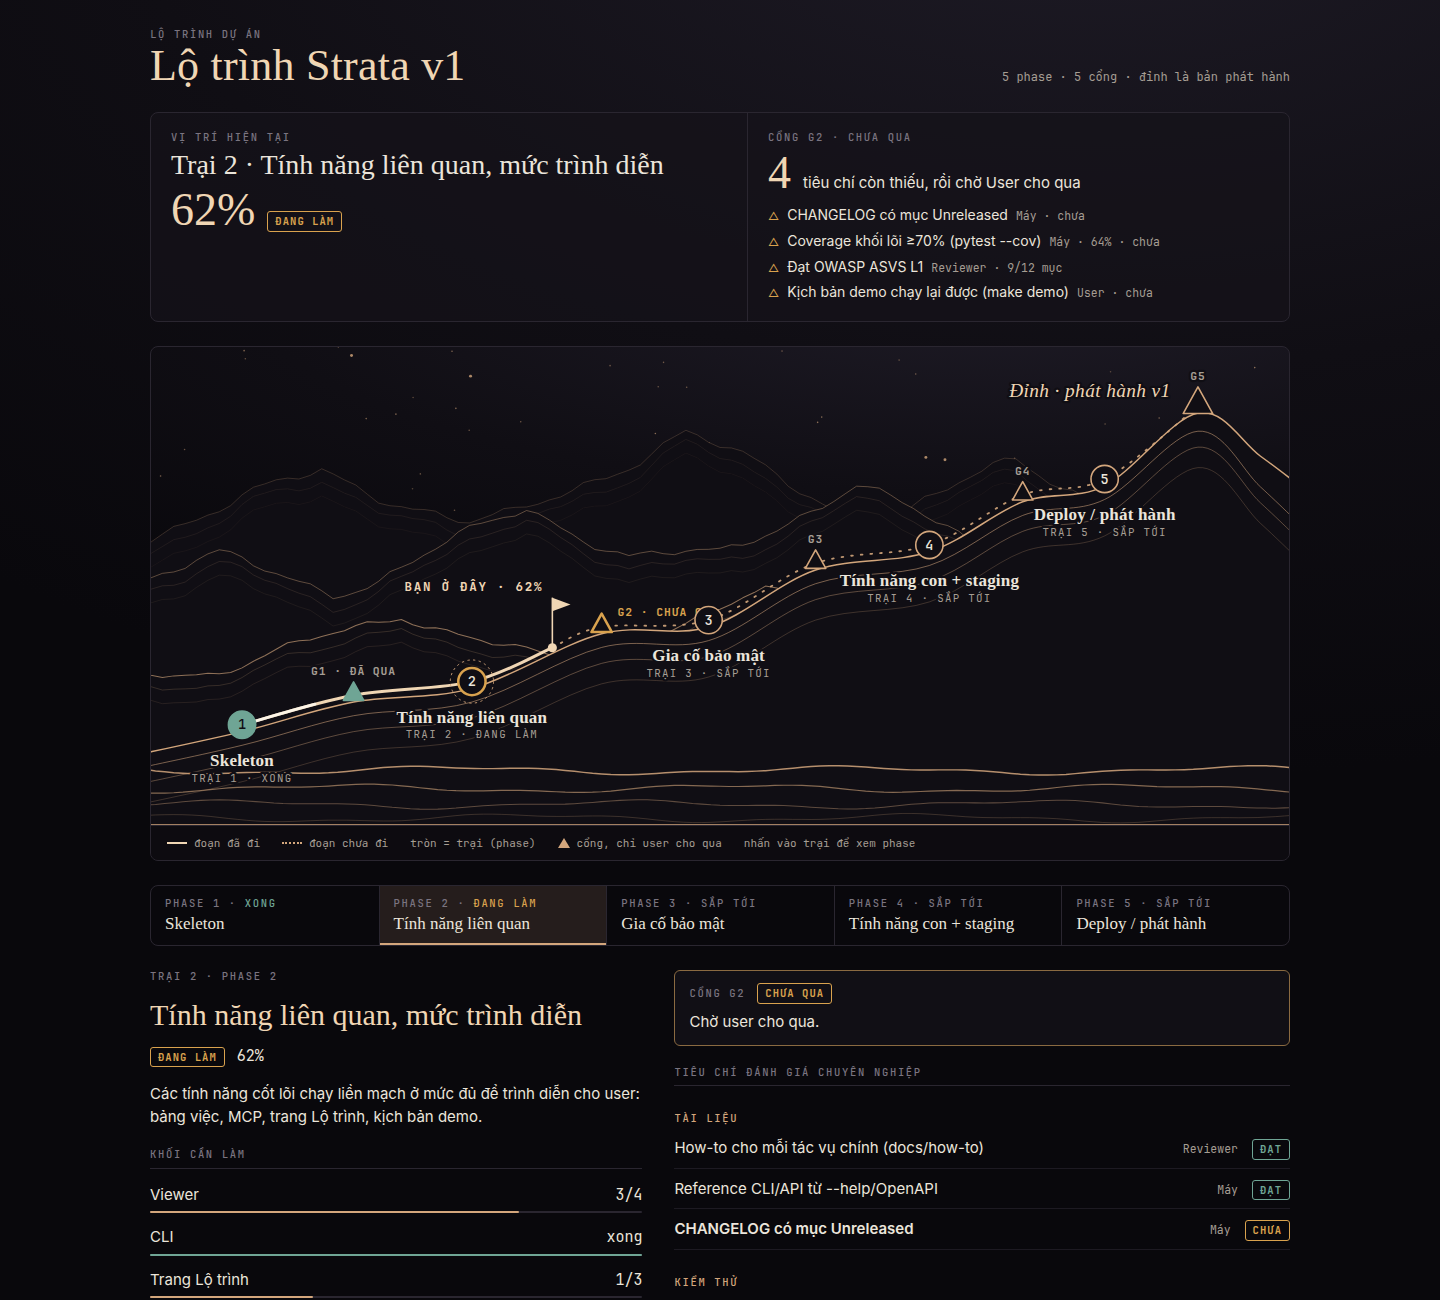
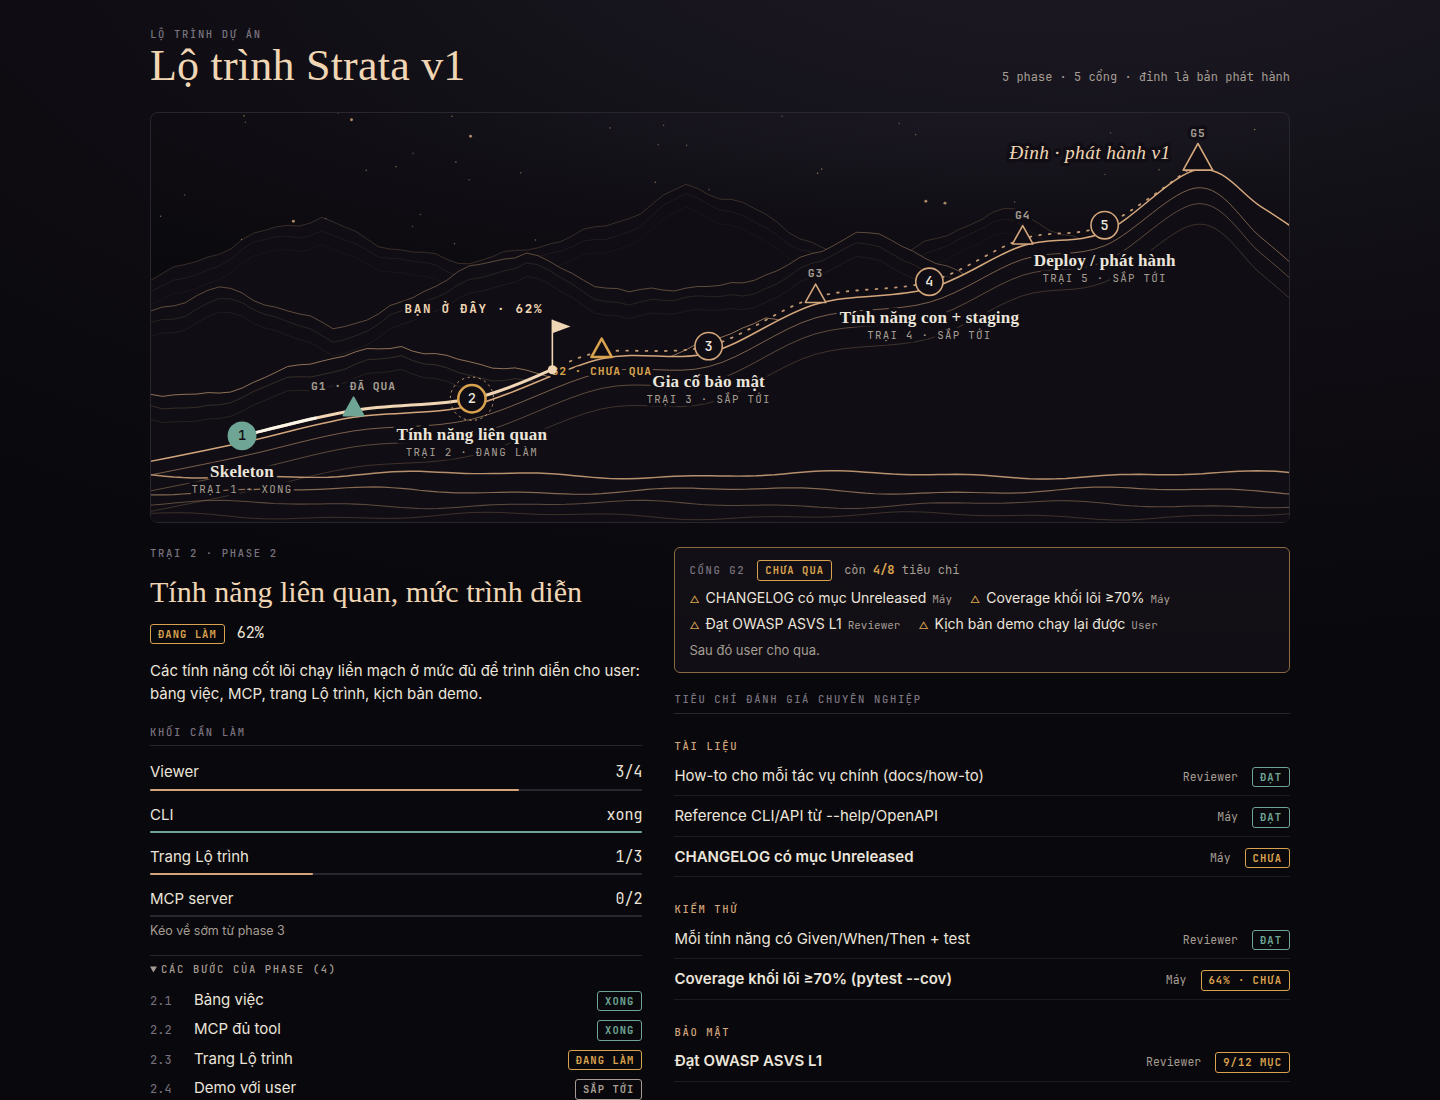
Roadmap astra: drop status strip/legend/tabs, map as head, informative gate box

diff --git a/design/roadmap-astra.html b/design/roadmap-astra.html
@@ -52,24 +52,14 @@ body { margin: 0; background: var(--haze), var(--bg-0); background-attachment: f
 .cap { font: 600 10.5px/1.3 var(--mono); letter-spacing: .16em; text-transform: uppercase; color: var(--faint); }
 button { font: inherit; color: inherit; }
 :focus-visible { outline: 2px solid var(--accent); outline-offset: 2px; }
+.tag { font: 700 10.5px/1 var(--mono); letter-spacing: .1em; text-transform: uppercase; padding: 4px 7px; border: 1px solid currentColor; border-radius: 3px; white-space: nowrap; }
+.tag.done { color: var(--st-done); } .tag.doing { color: var(--st-doing); } .tag.todo { color: var(--st-todo); }
 .row { display: flex; align-items: baseline; gap: 12px; flex-wrap: wrap; }
 
 header { display: flex; flex-wrap: wrap; gap: 8px 24px; justify-content: space-between; align-items: flex-end; }
 h1 { margin: 2px 0 0; font: 500 44px/1 var(--display); letter-spacing: .005em; color: var(--gold-3); text-wrap: balance; }
 .meta { font: 12px/1.6 var(--mono); color: var(--muted); text-align: right; }
 
-/* dải trạng thái */
-.status { display: grid; grid-template-columns: 1.1fr 1fr; border: 1px solid var(--line); border-radius: var(--r-lg); background: color-mix(in srgb, var(--card) 70%, transparent); }
-.status > div { padding: 18px 20px; min-width: 0; display: flex; flex-direction: column; gap: 6px; }
-.status > div + div { border-left: 1px solid var(--line); }
-.status h2 { margin: 0; font: 500 28px/1.1 var(--display); text-wrap: balance; }
-.big { font: 500 46px/1 var(--display); color: var(--gold-3); font-variant-numeric: lining-nums tabular-nums; }
-.tag { font: 700 10.5px/1 var(--mono); letter-spacing: .1em; text-transform: uppercase; padding: 4px 7px; border: 1px solid currentColor; border-radius: 3px; white-space: nowrap; }
-.tag.done { color: var(--st-done); } .tag.doing { color: var(--st-doing); } .tag.todo { color: var(--st-todo); }
-.miss { margin: 2px 0 0; padding: 0; list-style: none; display: flex; flex-direction: column; gap: 4px; font-size: 14px; }
-.miss li { display: flex; gap: 8px; flex-wrap: wrap; align-items: baseline; }
-.miss li::before { content: "\25B3"; color: var(--st-doing); font-size: 11px; }
-.miss .who { font: 11.5px var(--mono); color: var(--muted); }
 
 /* bản đồ */
 .mapbox { position: relative; border-radius: var(--r-lg); background: var(--haze); overflow: hidden; border: 1px solid var(--line); }
@@ -85,7 +75,7 @@ svg.map { display: block; width: 100%; min-width: 680px; height: auto; color: va
 .map .trail-todo { fill: none; stroke: currentColor; stroke-width: 1.6; stroke-dasharray: 1.5 7; stroke-linecap: round; opacity: .9; }
 .map .trail-done { fill: none; stroke: var(--trail); stroke-width: 2.6; stroke-linecap: round; stroke-linejoin: round; }
 .map .sheen { fill: none; stroke: var(--sheen); stroke-width: 2.6; stroke-linecap: round; stroke-dasharray: 60 1340; opacity: .85; }
-.map text { font-family: var(--mono); fill: var(--fg); paint-order: stroke; stroke: var(--bg); stroke-width: 4px; stroke-linejoin: round; }
+.map text { font-family: var(--mono); fill: var(--fg); paint-order: stroke; stroke: var(--bg); stroke-width: 6px; stroke-linejoin: round; }
 .map .sm { font-size: 9.5px; fill: var(--muted); letter-spacing: .12em; }
 .map .nm { font: 600 15px var(--display); letter-spacing: .01em; }
 .map .camp { cursor: pointer; }
@@ -106,20 +96,7 @@ svg.map { display: block; width: 100%; min-width: 680px; height: auto; color: va
 .map .flag polygon { fill: var(--trail); }
 .map .here { fill: var(--trail); font-size: 11px; font-weight: 700; letter-spacing: .14em; }
 .map .summit { font: italic 500 17px var(--display); fill: var(--gold-3); letter-spacing: .02em; }
-.legend { display: flex; flex-wrap: wrap; gap: 6px 22px; padding: 10px 16px; border-top: 1px solid var(--line); font: 11px var(--mono); color: var(--muted); align-items: center; background: color-mix(in srgb, var(--bg) 60%, transparent); }
-.legend span { display: inline-flex; align-items: center; gap: 7px; }
-.sw { width: 20px; height: 0; border-top: 2.5px solid var(--trail); }
-.sw.d { border-top: 2px dotted var(--gold); }
-.sw.t { width: 0; height: 0; border: 0; border-left: 6px solid transparent; border-right: 6px solid transparent; border-bottom: 10px solid var(--gold); }
 
-/* chọn phase */
-.rail { display: grid; grid-template-columns: repeat(5, 1fr); border: 1px solid var(--line); border-radius: var(--r-lg); overflow: hidden; }
-.rail button { background: transparent; border: 0; text-align: left; padding: 11px 14px; cursor: pointer; display: flex; flex-direction: column; gap: 3px; min-width: 0; }
-.rail button + button { border-left: 1px solid var(--line); }
-.rail button:hover { background: var(--accent-soft); }
-.rail button[aria-pressed="true"] { background: var(--accent-soft); box-shadow: inset 0 -2px 0 var(--gold); }
-.rail .t { font: 500 17px/1.2 var(--display); overflow-wrap: anywhere; }
-.rail .st-done { color: var(--st-done); } .rail .st-doing { color: var(--st-doing); }
 
 /* chi tiết */
 .detail { display: grid; grid-template-columns: 1fr 1.25fr; gap: 32px; align-items: start; }
@@ -145,16 +122,19 @@ details summary { cursor: pointer; font: 600 10.5px var(--mono); letter-spacing:
 .steps { list-style: none; margin: 6px 0 0; padding: 0; display: flex; flex-direction: column; gap: 6px; }
 .steps li { display: grid; grid-template-columns: 34px 1fr auto; gap: 10px; align-items: baseline; }
 .id { font: 12px var(--mono); color: var(--faint); }
+.gc { font: 12px var(--mono); color: var(--muted); } .gc b { color: var(--st-doing); font-weight: 700; }
+.gmiss { list-style: none; margin: 0; padding: 0; display: flex; flex-wrap: wrap; gap: 4px 18px; font-size: 14px; }
+.gmiss li { display: inline-flex; gap: 6px; align-items: baseline; }
+.gmiss li::before { content: "\25B3"; color: var(--st-doing); font-size: 10px; }
+.gmiss .who { font: 11px var(--mono); color: var(--muted); }
+.then { font-size: 13px; color: var(--muted); }
 .empty { margin: 0; color: var(--muted); font-style: italic; }
 .off { border-top: 1px solid var(--line); padding-top: 14px; display: flex; flex-direction: column; gap: 8px; }
 .off ul { list-style: none; margin: 0; padding: 0; display: flex; flex-wrap: wrap; gap: 6px 26px; }
 
 @media (max-width: 760px) {
   h1 { font-size: 34px; } .meta { text-align: left; }
-  .status, .detail { grid-template-columns: 1fr; }
-  .status > div + div { border-left: 0; border-top: 1px solid var(--line); }
-  .rail { grid-template-columns: 1fr; }
-  .rail button + button { border-left: 0; border-top: 1px solid var(--line); }
+  .detail { grid-template-columns: 1fr; }
   .crit { grid-template-columns: 1fr auto; } .crit .what { grid-column: 1 / -1; }
 }
 </style>
@@ -165,18 +145,9 @@ details summary { cursor: pointer; font: 600 10.5px var(--mono); letter-spacing:
     <div><div class="cap">Lộ trình dự án</div><h1>Lộ trình Strata v1</h1></div>
     <div class="meta">5 phase · 5 cổng · đỉnh là bản phát hành</div>
   </header>
-  <div class="status" id="status"></div>
   <div class="mapbox">
-    <div class="scroll"><svg class="map" id="map" viewBox="0 0 1000 420" role="img" aria-label="Năm trại trên các lớp núi; năm trại là năm phase, đỉnh là bản phát hành"></svg></div>
-    <div class="legend">
-      <span><i class="sw"></i> đoạn đã đi</span>
-      <span><i class="sw d"></i> đoạn chưa đi</span>
-      <span>tròn = trại (phase)</span>
-      <span><i class="sw t"></i> cổng, chỉ user cho qua</span>
-      <span>nhấn vào trại để xem phase</span>
-    </div>
+    <div class="scroll"><svg class="map" id="map" viewBox="0 0 1000 360" role="img" aria-label="Nhấn vào trại để xem phase. Năm trại trên các lớp núi; năm trại là năm phase, đỉnh là bản phát hành"></svg></div>
   </div>
-  <nav class="rail" id="rail" aria-label="Chọn phase"></nav>
   <div class="detail" id="detail"></div>
   <div class="off" id="off"></div>
 </div>
@@ -217,6 +188,8 @@ const NS = "http://www.w3.org/2000/svg";
 const lbl = { done:"xong", doing:"đang làm", todo:"sắp tới" };
 const esc = s => String(s).replace(/[&<>]/g, c => ({"&":"&amp;","<":"&lt;",">":"&gt;"}[c]));
 const P = { C1:[80,338], G1:[178,312], C2:[282,300], G2:[396,252], C3:[490,246], G3:[584,196], C4:[684,180], G4:[766,136], C5:[838,122], G5:[920,58] };
+const K = 360/420;
+for (const k in P) P[k] = [P[k][0], +(P[k][1]*K).toFixed(1)];
 const ORDER = ["C1","G1","C2","G2","C3","G3","C4","G4","C5","G5"];
 const FRAC = 0.62;
 const here = [P.C2[0] + (P.G2[0]-P.C2[0])*FRAC, P.C2[1] + (P.G2[1]-P.C2[1])*FRAC];
@@ -245,7 +218,7 @@ function ridge(base, amp, seed, peaks) {
     let y = base;
     peaks.forEach(([px, h, w]) => { y -= h * Math.max(0, 1 - Math.abs(x - px) / w); });
     y += amp * (Math.sin(x * .031 + seed) * .6 + Math.sin(x * .087 + seed * 2) * .3 + Math.sin(x * .19 + seed) * .12);
-    pts.push([x, +y.toFixed(1)]);
+    pts.push([x, +(y*K).toFixed(1)]);
   }
   return pts;
 }
@@ -258,7 +231,7 @@ function buildScene(s) {
   const rnd = () => (r = (r * 9301 + 49297) % 233280) / 233280;
   const stars = el("g", { class:"stars" }, g);
   for (let i = 0; i < 46; i++) {
-    const x = rnd() * 1000, y = rnd() * 150, big = rnd() > .85;
+    const x = rnd() * 1000, y = rnd() * 120, big = rnd() > .85;
     el("circle", { class:"star", cx:x.toFixed(1), cy:y.toFixed(1), r: big ? 1.3 : .7, opacity: (big ? .8 : .35 + rnd() * .3).toFixed(2) }, stars);
   }
   // lớp núi xa -> gần
@@ -269,19 +242,19 @@ function buildScene(s) {
   ];
   layers.forEach(L => {
     const d = lineD(L.pts);
-    el("path", { class:"body", d: d + " L1020 420 L-20 420 Z", "stroke-width":L.w, "stroke-opacity":L.op }, g);
+    el("path", { class:"body", d: d + " L1020 360 L-20 360 Z", "stroke-width":L.w, "stroke-opacity":L.op }, g);
     // nét sườn (hatch) song song dưới sống núi
     [10, 22].forEach((off, k) => el("path", { class:"ln", d: lineD(L.pts.map(([x,y]) => [x, y + off + Math.sin(x*.05)*2])), "stroke-width":.6, opacity:(L.op * (.45 - k*.18)).toFixed(2) }, g));
   });
   // sống núi chính: đường mòn chạy trên đó
-  const main = [[-20,360], ...ORDER.map(k => P[k]), [975,96], [1020,130]];
+  const main = [[-20,310], ...ORDER.map(k => P[k]), [975,82], [1020,112]];
   const md = smooth(main);
-  el("path", { class:"body", d: md + " L1020 420 L-20 420 Z", "stroke-width":1.5 }, g);
+  el("path", { class:"body", d: md + " L1020 360 L-20 360 Z", "stroke-width":1.5 }, g);
   [12, 26, 44].forEach((off, k) => el("path", { class:"ln", d: smooth(main.map(([x,y]) => [x, y + off + (x > 900 ? (x-900)*.2 : 0)])), "stroke-width":.8, opacity:(.6 - k*.17).toFixed(2) }, g));
   // sóng ngang dưới chân núi
-  [[372,1.3,.85],[388,1.05,.6],[402,.9,.4],[414,.8,.25]].forEach(([y0,w,o], i) => {
+  [[318,1.3,.85],[332,1.05,.6],[344,.9,.4],[354,.8,.25]].forEach(([y0,w,o], i) => {
     const pts = [];
-    for (let x = -20; x <= 1020; x += 8) pts.push([x, +(y0 + Math.sin(x*.018 + i*1.7)*3 + Math.sin(x*.05 + i)*1.2).toFixed(1)]);
+    for (let x = -20; x <= 1020; x += 8) pts.push([x, +(y0 + Math.sin(x*.018 + i*1.7)*2.5 + Math.sin(x*.05 + i)*1.2).toFixed(1)]);
     el("path", { class:"ln", d: lineD(pts), "stroke-width":w, opacity:o }, g);
   });
   return main;
@@ -299,9 +272,9 @@ function drawMap() {
     const [x,y0] = P["G"+ph.n], y = y0 - 6, st = ph.gate.state;
     const sz = ph.n === 5 ? 13 : 9;
     el("polygon", { class:"cairn " + st, points:`${x},${y-sz*1.3} ${x+sz},${y+sz*.5} ${x-sz},${y+sz*.5}` }, s);
-    el("text", { class:"gid" + (st === "open" ? " open" : ""), x: st === "open" ? x + 14 : x, y: st === "open" ? y - 10 : y - sz*1.3 - 6, "text-anchor": st === "open" ? "start" : "middle" }, s, ph.gate.id + (st === "open" ? " · CHƯA QUA" : st === "done" ? " · ĐÃ QUA" : ""));
+    el("text", { class:"gid" + (st === "open" ? " open" : ""), x, y: st === "open" ? y + 20 : y - sz*1.3 - 6, "text-anchor":"middle" }, s, ph.gate.id + (st === "open" ? " · CHƯA QUA" : st === "done" ? " · ĐÃ QUA" : ""));
   });
-  el("text", { class:"summit", x:896, y:44, "text-anchor":"end" }, s, "Đỉnh · phát hành v1");
+  el("text", { class:"summit", x:896, y:40, "text-anchor":"end" }, s, "Đỉnh · phát hành v1");
   // trại
   PHASES.forEach(ph => {
     const [x,y0] = P["C"+ph.n], y = y0 - 6;
@@ -322,23 +295,6 @@ function drawMap() {
   el("circle", { cx:hx, cy:hy, r:4, fill:"var(--trail)" }, f);
   el("text", { class:"here", x:hx-8, y:hy-50, "text-anchor":"end" }, f, "BẠN Ở ĐÂY · 62%");
 }
-function renderStatus() {
-  const c = PHASES[CUR - 1];
-  const miss = [];
-  c.crit.forEach(([g, rows]) => rows.forEach(r => { if (!r[2]) miss.push([r[0], r[1], r[3]]); }));
-  $("status").innerHTML =
-    `<div><span class="cap">Vị trí hiện tại</span>
-       <h2>Trại ${c.n} · ${esc(c.name)}</h2>
-       <div class="row"><span class="big">${c.pct}%</span><span class="tag doing">${lbl[c.state]}</span></div></div>
-     <div><span class="cap">Cổng G${c.n} · chưa qua</span>
-       <div class="row"><span class="big">${miss.length}</span><span>tiêu chí còn thiếu, rồi chờ User cho qua</span></div>
-       <ul class="miss">${miss.map(m => `<li>${esc(m[0])} <span class="who">${esc(m[1])} · ${esc(m[2])}</span></li>`).join("")}</ul></div>`;
-}
-function renderRail() {
-  $("rail").innerHTML = PHASES.map(p =>
-    `<button type="button" data-n="${p.n}" aria-pressed="${p.n === sel}"><span class="cap">Phase ${p.n} · <span class="st-${p.state}">${lbl[p.state]}</span></span><span class="t">${esc(p.short)}</span></button>`).join("");
-  $("rail").querySelectorAll("button").forEach(b => b.addEventListener("click", () => select(+b.dataset.n)));
-}
 function renderDetail() {
   const p = PHASES[sel - 1];
   const blocks = p.blocks.map(b => {
@@ -351,9 +307,15 @@ function renderDetail() {
     `<div class="grp"><span class="cap">${esc(g)}</span>${rows.map(r =>
       `<div class="crit ${r[2] ? "" : "miss-row"}"><span class="what">${esc(r[0])}</span><span class="by">${esc(r[1])}</span><span class="tag ${r[2] ? "done" : "doing"}">${esc(r[3])}</span></div>`).join("")}</div>`).join("")
     : `<p class="empty">Tiêu chí đánh giá của phase này chưa được lập. Sẽ viết khi phase trước qua cổng.</p>`;
-  const steps = p.steps.length ? `<details><summary>Các bước của phase (${p.steps.length})</summary><ul class="steps">${p.steps.map(s =>
+  const steps = p.steps.length ? `<details open><summary>Các bước của phase (${p.steps.length})</summary><ul class="steps">${p.steps.map(s =>
     `<li><span class="id">${s[0]}</span><span>${esc(s[1])}</span><span class="tag ${s[2]}">${lbl[s[2]]}</span></li>`).join("")}</ul></details>` : "";
   const gs = p.gate.state;
+  const all = p.crit ? p.crit.flatMap(([, rows]) => rows) : [];
+  const miss = all.filter(r => !r[2]);
+  const gateCount = all.length ? `<span class="gc">còn <b>${miss.length}/${all.length}</b> tiêu chí</span>` : "";
+  const gateBody = miss.length && gs === "open"
+    ? `<ul class="gmiss">${miss.map(r => `<li>${esc(r[0].replace(/\s*\(.*\)$/, ""))} <span class="who">${esc(r[1])}</span></li>`).join("")}</ul><span class="then">Sau đó user cho qua.</span>`
+    : `<span>${esc(p.gate.note)}</span>`;
   const gateTag = gs === "done" ? "done" : gs === "open" ? "doing" : "todo";
   const gateTxt = gs === "done" ? "đã qua" : gs === "open" ? "chưa qua" : "sắp tới";
   $("detail").innerHTML =
@@ -367,14 +329,14 @@ function renderDetail() {
        ${steps}
      </section>
      <section>
-       <div class="gate-box ${gs}"><div class="row"><span class="cap">Cổng ${p.gate.id}</span><span class="tag ${gateTag}">${gateTxt}</span></div><span>${esc(p.gate.note)}</span></div>
+       <div class="gate-box ${gs}"><div class="row"><span class="cap">Cổng ${p.gate.id}</span><span class="tag ${gateTag}">${gateTxt}</span>${gateCount}</div>${gateBody}</div>
        <h4 class="cap">Tiêu chí đánh giá chuyên nghiệp</h4>
        ${crit}
      </section>`;
 }
-function select(n) { sel = n; drawMap(); renderRail(); renderDetail(); }
+function select(n) { sel = n; drawMap(); renderDetail(); }
 $("off").innerHTML = `<span class="cap">Ngoài lộ trình</span><ul>${OFF.map(o => `<li><span class="id">${o[0]}</span> ${esc(o[1])}</li>`).join("")}</ul>`;
-renderStatus(); select(CUR);
+select(CUR);
 </script>
 </body>
 </html>
